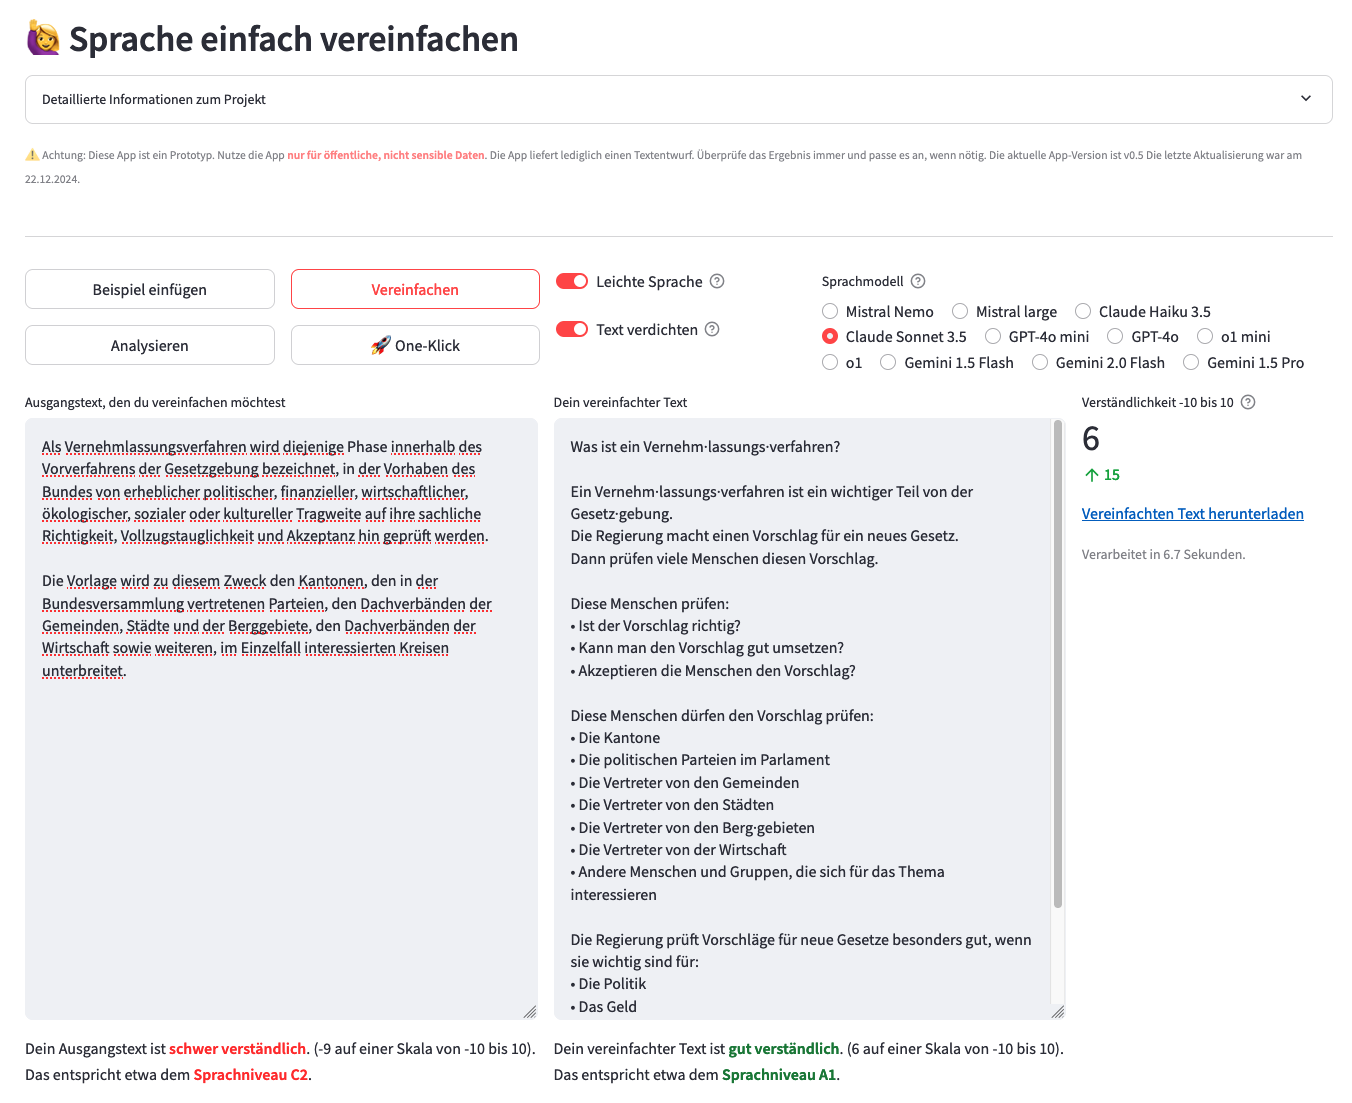
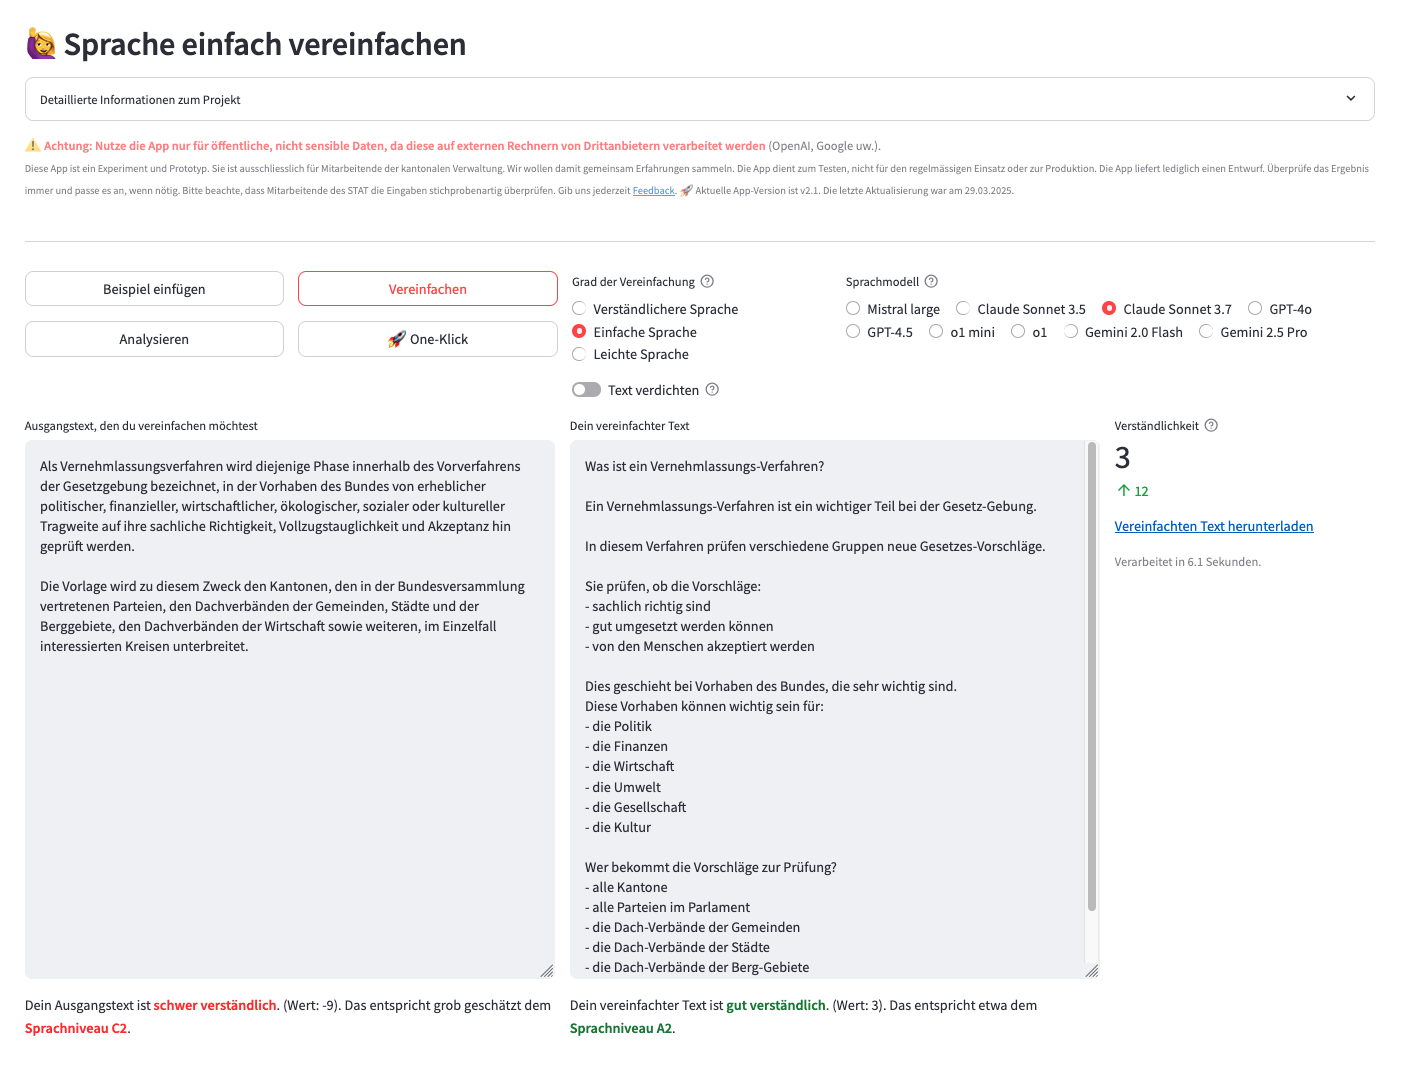
Update to latest models
- Format READMEs

diff --git a/_streamlit_app/sprache-vereinfachen.py b/_streamlit_app/sprache-vereinfachen.py
@@ -87,13 +87,13 @@ MODEL_IDS = {
     "Mistral large": "mistral-large-latest",
     "Claude Haiku 3.5": "claude-3-5-haiku-latest",
     "Claude Sonnet 3.5": "claude-3-5-sonnet-latest",
-    "GPT-4o mini": "gpt-4o-mini",
+    "Claude Sonnet 3.7": "claude-3-7-sonnet-latest",
     "GPT-4o": "gpt-4o",
+    "GPT-4.5": "gpt-4.5-preview",
     "o1 mini": "o1-mini",
     "o1": "o1",
-    "Gemini 1.5 Flash": "gemini-1.5-flash",
-    "Gemini 2.0 Flash": "gemini-2.0-flash-exp",
-    "Gemini 1.5 Pro": "gemini-1.5-pro",
+    "Gemini 2.0 Flash": "gemini-2.0-flash",
+    "Gemini 2.5 Pro": "gemini-2.5-pro-exp-03-25",
 }
 
 # From our testing we derive a sensible temperature of 0.5 as a good trade-off between creativity and coherence. Adjust this to your needs.
@@ -109,7 +109,7 @@ TEXT_AREA_HEIGHT = 600
 MAX_CHARS_INPUT = 10_000
 
 
-USER_WARNING = """<sub>⚠ Achtung: Diese App ist ein Prototyp. Nutze die App :red[**nur für öffentliche, nicht sensible Daten**]. Die App liefert lediglich einen Textentwurf. Überprüfe das Ergebnis immer und passe es an, wenn nötig. Die aktuelle App-Version ist v0.6 Die letzte Aktualisierung war am 19.01.2025."""
+USER_WARNING = """<sub>⚠ Achtung: Diese App ist ein Prototyp. Nutze die App :red[**nur für öffentliche, nicht sensible Daten**]. Die App liefert lediglich einen Textentwurf. Überprüfe das Ergebnis immer und passe es an, wenn nötig. Die aktuelle App-Version ist v0.6 Die letzte Aktualisierung war am 29.03.2025."""
 
 
 # Constants for the formatting of the Word document that can be downloaded.
@@ -348,15 +348,15 @@ def get_one_click_results():
                 st.session_state.key_textinput,
                 MODEL_IDS["Mistral Nemo"],
             ),
-            "GPT-4o mini": executor.submit(
-                invoke_openai_model,
-                st.session_state.key_textinput,
-                MODEL_IDS["GPT-4o mini"],
-            ),
             "GPT-4o": executor.submit(
                 invoke_openai_model,
                 st.session_state.key_textinput,
                 MODEL_IDS["GPT-4o"],
+            ),
+            "GPT-4.5": executor.submit(
+                invoke_openai_model,
+                st.session_state.key_textinput,
+                MODEL_IDS["GPT-4.5"],
             ),
             "o1 mini": executor.submit(
                 invoke_openai_reasoning_model,
@@ -378,20 +378,20 @@ def get_one_click_results():
                 st.session_state.key_textinput,
                 MODEL_IDS["Claude Sonnet 3.5"],
             ),
-            "Gemini 1.5 Flash": executor.submit(
-                invoke_google_model,
+            "Claude Sonnet 3.7": executor.submit(
+                invoke_anthropic_model,
                 st.session_state.key_textinput,
-                MODEL_IDS["Gemini 1.5 Flash"],
+                MODEL_IDS["Claude Sonnet 3.7"],
             ),
             "Gemini 2.0 Flash": executor.submit(
                 invoke_google_model,
                 st.session_state.key_textinput,
                 MODEL_IDS["Gemini 2.0 Flash"],
             ),
-            "Gemini 1.5 Pro": executor.submit(
+            "Gemini 2.5 Pro": executor.submit(
                 invoke_google_model,
                 st.session_state.key_textinput,
-                MODEL_IDS["Gemini 1.5 Pro"],
+                MODEL_IDS["Gemini 2.5 Pro"],
             ),
         }
 
@@ -661,7 +661,7 @@ if do_simplification or do_analysis or do_one_click:
                     success, response = get_one_click_results()
                 # Regular text simplification or analysis
                 else:
-                    if model_choice in ["GPT-4o mini", "GPT-4o"]:
+                    if model_choice in ["GPT-4.5", "GPT-4o"]:
                         success, response = invoke_openai_model(
                             st.session_state.key_textinput,
                             model_id=model_id,
@@ -680,7 +680,6 @@ if do_simplification or do_analysis or do_one_click:
                             analysis=do_analysis,
                         )
                     elif model_choice in [
-                        "Gemini 1.5 Flash",
                         "Gemini 2.0 Flash",
                         "Gemini 1.5 Pro",
                     ]:

diff --git a/AZURE_HOWTO.md b/AZURE_HOWTO.md
@@ -1,32 +1,35 @@
 # How to setup the app with Azure OpenAI Service
 
-In addition to (mostly US-hosted) API model endpoints, we created an app version that runs with `Azure OpenAI Services (AOAI)`. Find the docs here: https://learn.microsoft.com/en-us/azure/ai-services/openai/
+In addition to (mostly US-hosted) API model endpoints, we created an app version that runs with `Azure OpenAI Services (AOAI)`. Find the docs here: <https://learn.microsoft.com/en-us/azure/ai-services/openai/>
 
 **Benefits**
-- OpenAI models can be deployed within the __Swiss Azure Cloud Region__ (e.g. `switzerlandnorth`) or regions within the EU (like `westeurope`). 
-- This may help with achieving compliance and adress data residency considerations and governance. 
+
+- OpenAI models can be deployed within the **Swiss Azure Cloud Region** (e.g. `switzerlandnorth`) or regions within the EU (like `westeurope`).
+- This may help with achieving compliance and adress data residency considerations and governance.
 - Some good reference documents:
   - [Azure Product terms](https://www.microsoft.com/licensing/terms/productoffering/MicrosoftAzure/MCA#Documents)
   - [Cloud Services in the Swiss Public Sector (Overview page)](https://news.microsoft.com/de-ch/azure-services-in-the-swiss-public-sector/)
   - [Azure Services in the Public Sector in Switzerland - DE](https://news.microsoft.com/wp-content/uploads/prod/sites/418/2021/11/Cloud-Design_Azure-Services-Swiss-Public-Sector_DE.pdf)
 
-**Important information** 
-Always ensure appropriate classification and handling of your data, especially for sensitive and/or personal data. 
+**Important information**
+Always ensure appropriate classification and handling of your data, especially for sensitive and/or personal data.
 Check with your Microsoft contact or Cloud Service Provider (Partner) representative for further questions.
 
 **Prerequisites**
+
 - An active **Azure account**. If you don't have one, click [here](https://azure.microsoft.com/free/cognitive-services).
 - In your account, an **Azure Subscription** that has been enabled for Azure OpenAI Services.
-    - Apply here: https://aka.ms/oaiapply (takes ~24hrs to activate)
+  - Apply here: <https://aka.ms/oaiapply> (takes ~24hrs to activate)
 
 ## Walkthrough
-- Go to https://portal.azure.com
-- From the Catalog, choose `Azure OpenAI service` 
+
+- Go to <https://portal.azure.com>
+- From the Catalog, choose `Azure OpenAI service`
 
 <img src="_imgs/aoai_select_service.png" style="width: 400px; border: none" />
 <img src="_imgs/aoai_select_service2.png" style="width: 400px; border: none" />
 
-- You need to select (or create) a new **Resource Group**, choose the Cloud **Region** and a unique service **Name** (becomes part of the endpoint url) 
+- You need to select (or create) a new **Resource Group**, choose the Cloud **Region** and a unique service **Name** (becomes part of the endpoint url)
 - **Note:** Not all model versions are available in all regions, see [here](https://learn.microsoft.com/en-us/azure/ai-services/openai/concepts/models). The region can't be changed afterwards (you'll need to delete & create a new service instance in that case).
 
 <img src="_imgs/aoai_create_service.png" style="width: 600px; border: none" />
@@ -36,7 +39,7 @@ Check with your Microsoft contact or Cloud Service Provider (Partner) representa
 
 <img src="_imgs/aoai_goto_studio.png" style="width: 600px; border: none" />
 
-- In the `Azure Open AI Studio`, go to `Deployments` and create a new model deployment. 
+- In the `Azure Open AI Studio`, go to `Deployments` and create a new model deployment.
 - **Note**: If you can't create a particular model type, that model may be unavailable in your region, or your quota may be exceeded.
 
 <img src="_imgs/aoai_create_deployment.png" style="width: 600px; border: none" />
@@ -46,17 +49,21 @@ Check with your Microsoft contact or Cloud Service Provider (Partner) representa
 
 - Now go back and find the **Endpoint** and **API Key**. There are multiple ways to find these, but one is clicking on the gear icon on top of OpenAI Studio:
 <img src="_imgs/aoai_gear_icon.png" style="width: 600px; border: none" />
+
 <img src="_imgs/aoai_endpoint_and_key.png" style="width: 800px; border: none" />
 
 - Now add these credentials to your `_streamlit_app/.env` file:
+
 ```
 AZURE_OPENAI_ENDPOINT=....
 AZURE_OPENAI_API_KEY=....
 AZURE_OPENAI_DEPLOYMENT=....
 ```
+
 - Start the application (`cd _streamlit_app/ && python -m streamlit run ./sprache-vereinfachen_azure.py)
 
 **Congratulations - your good to go...** 🎉
 
 ## Known limitations
-- While latest OpenAI models find their way to Azure quite fast, some may be restricted to higher tiers for capacity reasons or arrive later (e.g. `GPT-4o` as of June 2024). Open a support ticket or talk to your Microsot representative if in doubt. 
+
+- While latest OpenAI models find their way to Azure quite fast, some may be restricted to higher tiers for capacity reasons or arrive later (e.g. `GPT-4o` as of June 2024). Open a support ticket or talk to your Microsot representative if in doubt.

diff --git a/_streamlit_app/utils_expander.md b/_streamlit_app/utils_expander.md
@@ -29,17 +29,17 @@ Momentan kannst du eins von 11 Sprachmodellen wählen:
 
 - **Mistral Nemo**: gute Qualität, 0.1 CHF
 - **Mistral Large**: sehr gute Qualität, 2.2 CHF
-- **Claude V3.5 Haiku**: sehr gute Qualität, 1.4 CHF
+- **Claude V3.5 Haiku**: gute Qualität, 1.4 CHF
 - **Claude V3.5 Sonnet**: beste Qualität, 5.1 CHF
-- **GPT-4o mini**: gute Qualität, 0.2 CHF
-- **GPT-4o**: sehr gute Qualität, 3.5 CHF
-- **o1 mini**: [«Reasoning-Modell»](https://openai.com/o1/), beste Qualität, 5 CHF
-- **o1**: [«Reasoning-Modell»](https://openai.com/o1/), beste Qualität, 25 CHF
-- **Gemini 1.5 Flash**: gute Qualität, 0.15 CHF
+- **Claude V3.7 Sonnet**: beste Qualität, 5.1 CHF
+- **GPT-4o**: beste Qualität, 3.5 CHF
+- **GPT-4.5**: beste Qualität, **60 CHF**
+- **o1 mini**: [«Reasoning-Modell»](https://openai.com/o1/), 5 CHF
+- **o1**: [«Reasoning-Modell»](https://openai.com/o1/), 25 CHF
 - **Gemini 2.0 Flash**: sehr gute Qualität, 0.15 CHF
-- **Gemini 1.5 Pro**: beste Qualität, 1.8 CHF
+- **Gemini 2.5 Pro**: beste Qualität, Preis noch nicht bekannt
 
-*(Ungefähre Kostengrössen für 100 [Normseiten](https://de.wikipedia.org/wiki/Normseite) á 250 Worten, Stand Dezember 2024, ohne Gewähr)*
+*(Ungefähre Kostengrössen für 100 [Normseiten](https://de.wikipedia.org/wiki/Normseite) á 250 Worten, Stand März 2025, ohne Gewähr)*
 
 Alle Modelle analysieren und schreiben unterschiedlich und sind alle einen Versuch wert. Die Claude-Modelle werden von [Anthropic](https://www.anthropic.com/) betrieben, die GPT- und o1-Modelle von [OpenAI](https://openai.com/), die Mistral-Modelle von [Mistral](https://mistral.ai/) und die Gemini-Modelle von [Google](https://ai.google.dev/).<br>
 
@@ -65,6 +65,7 @@ Wir sind für Rückmeldungen und Anregungen jeglicher Art dankbar und nehmen die
 
 ## Versionsverlauf
 
+- **v0.6** - 29.03.2025 - *Modelle aktualisiert.*
 - **v0.5** - 22.12.2024 - *Modelle aktualisiert und ergänzt. Code vereinfacht.*
 - **v0.4** - 30.08.2024 - *Fehler behoben.*
 - **v0.3** - 18.08.2024 - *Neuen ZIX-Index integriert. Diverse Fehler behoben.*
